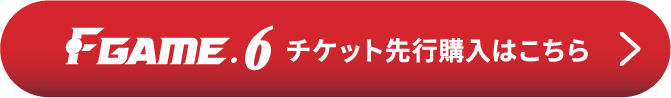
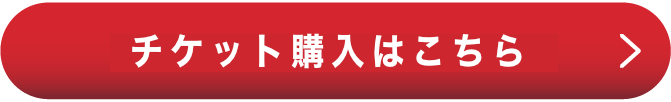
Add files via upload

diff --git a/index.html b/index.html
@@ -265,6 +265,52 @@
             fill: var(--text-muted);
         }
 
+        /* Ticket Purchase Section */
+        .ticket-purchase-section {
+            padding: 3rem 2rem;
+            background-color: var(--dark);
+            text-align: center;
+        }
+
+        .ticket-purchase-note {
+            font-family: 'Noto Sans JP', sans-serif;
+            font-size: 0.9rem;
+            color: var(--text-muted);
+            text-align: center;
+            margin-top: -2rem;
+        }
+
+        .ticket-buttons {
+            display: flex;
+            flex-direction: column;
+            align-items: center;
+            gap: 1.5rem;
+            margin-top: 2rem;
+            max-width: 400px;
+            margin-left: auto;
+            margin-right: auto;
+        }
+
+        .ticket-btn {
+            display: block;
+            width: 100%;
+            border-radius: 12px;
+            overflow: hidden;
+            transition: opacity 0.3s ease;
+            -webkit-tap-highlight-color: transparent;
+            line-height: 0;
+        }
+
+        .ticket-btn:hover {
+            opacity: 0.8;
+        }
+
+        .ticket-btn img {
+            width: 100%;
+            height: auto;
+            display: block;
+        }
+
         /* Information Section */
         .info-section {
             padding: 0 0 3rem 0;
@@ -1024,6 +1070,24 @@
         </div>
     </section>
 
+    <!-- Ticket Purchase Section -->
+    <section id="ticket-purchase" class="ticket-purchase-section">
+        <div class="container">
+            <h2 class="section-title">チケット購入</h2>
+            <p class="ticket-purchase-note">※各種サイトから購入いただけます</p>
+            <div class="ticket-buttons">
+                <a href="http://r.y-tickets.jp/ashisalfc2602" target="_blank" rel="noopener noreferrer" class="ticket-btn">
+                    <img src="mu-mo.png?v=2" alt="mu-mo TICKET">
+                </a>
+                <a href="https://w.pia.jp/t/fgame6/" target="_blank" rel="noopener noreferrer" class="ticket-btn">
+                    <img src="pia.png?v=2" alt="ぴあ">
+                </a>
+                <a href="https://l-tike.com/ashisalfc/" target="_blank" rel="noopener noreferrer" class="ticket-btn">
+                    <img src="lawtic.png?v=2" alt="ローチケ LAWSON TICKET">
+                </a>
+            </div>
+        </div>
+    </section>
 
     <script>
         function toggleFaq() {
@@ -1205,8 +1269,8 @@
     <!-- Fixed Navigation Bar -->
     <nav class="fixed-nav">
         <div class="fixed-nav-container">
-            <a href="https://fanclub.ashisalfc.jp/priority-tickets" class="nav-main-btn">
-                <img src="btn-01.png" alt="「F GAME.6」チケット先行販売はこちら">
+            <a href="#ticket-purchase" class="nav-main-btn">
+                <img src="btn-01.png" alt="チケット購入はこちら">
             </a>
             <div class="nav-sub-btns">
                 <a href="#seating" class="nav-sub-btn">
